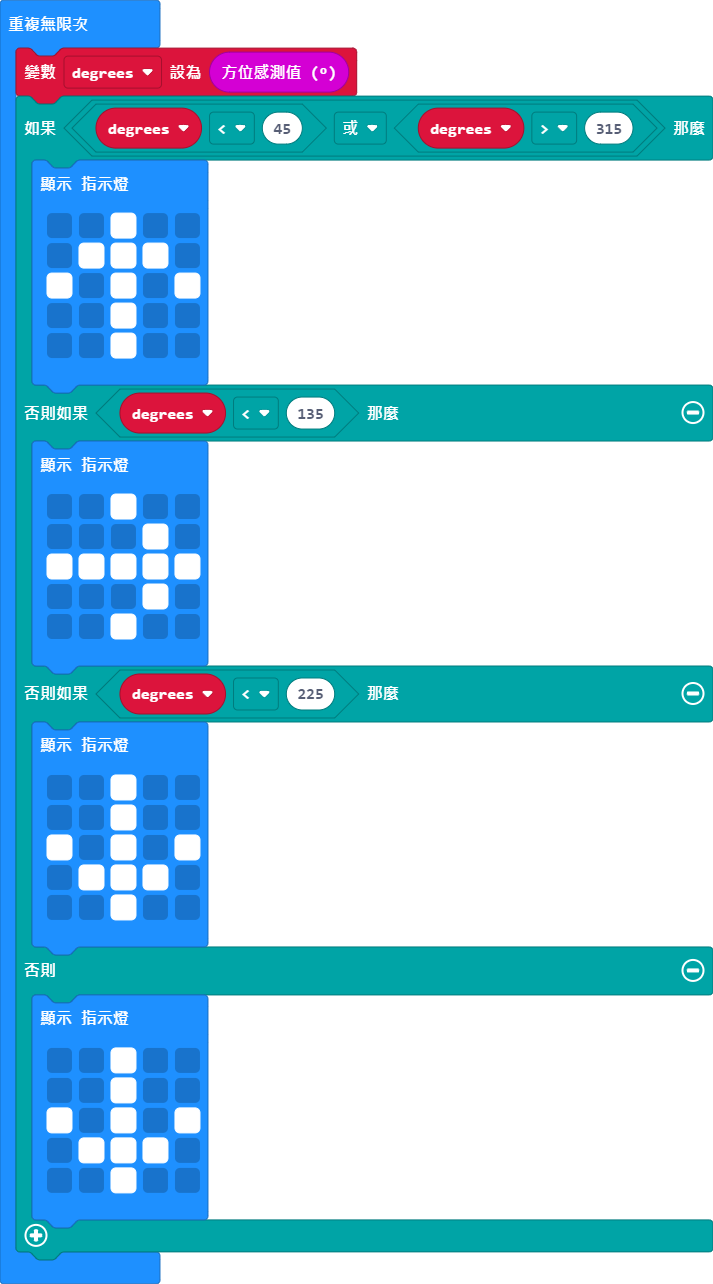
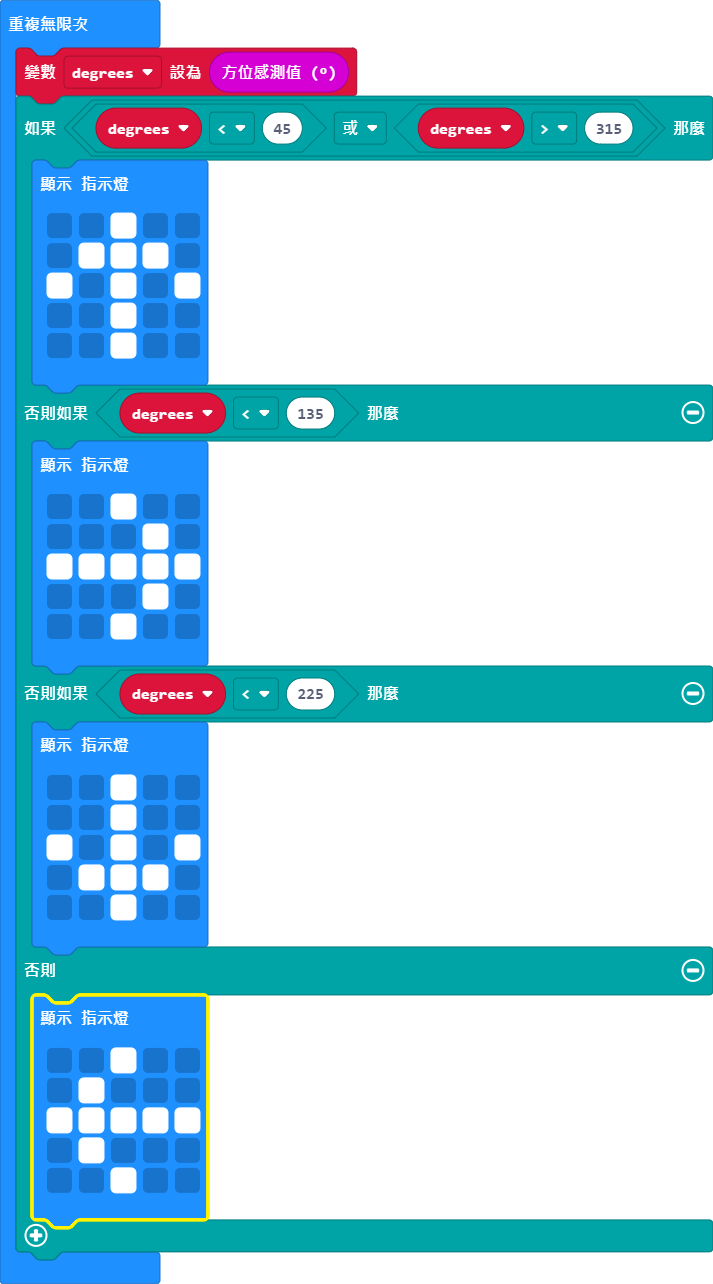
更新 main.blocks, main.ts

Changed region(s): [[0.0926, 0.8411, 0.2468, 0.9034], [0.0309, 0.7788, 0.1234, 0.9657], [0.2777, 0.7788, 0.3086, 0.9657]]

diff --git a/main.ts b/main.ts
@@ -28,9 +28,9 @@ basic.forever(function () {
     } else {
         basic.showLeds(`
             . . # . .
-            . . # . .
-            # . # . #
-            . # # # .
+            . # . . .
+            # # # # #
+            . # . . .
             . . # . .
             `)
     }
